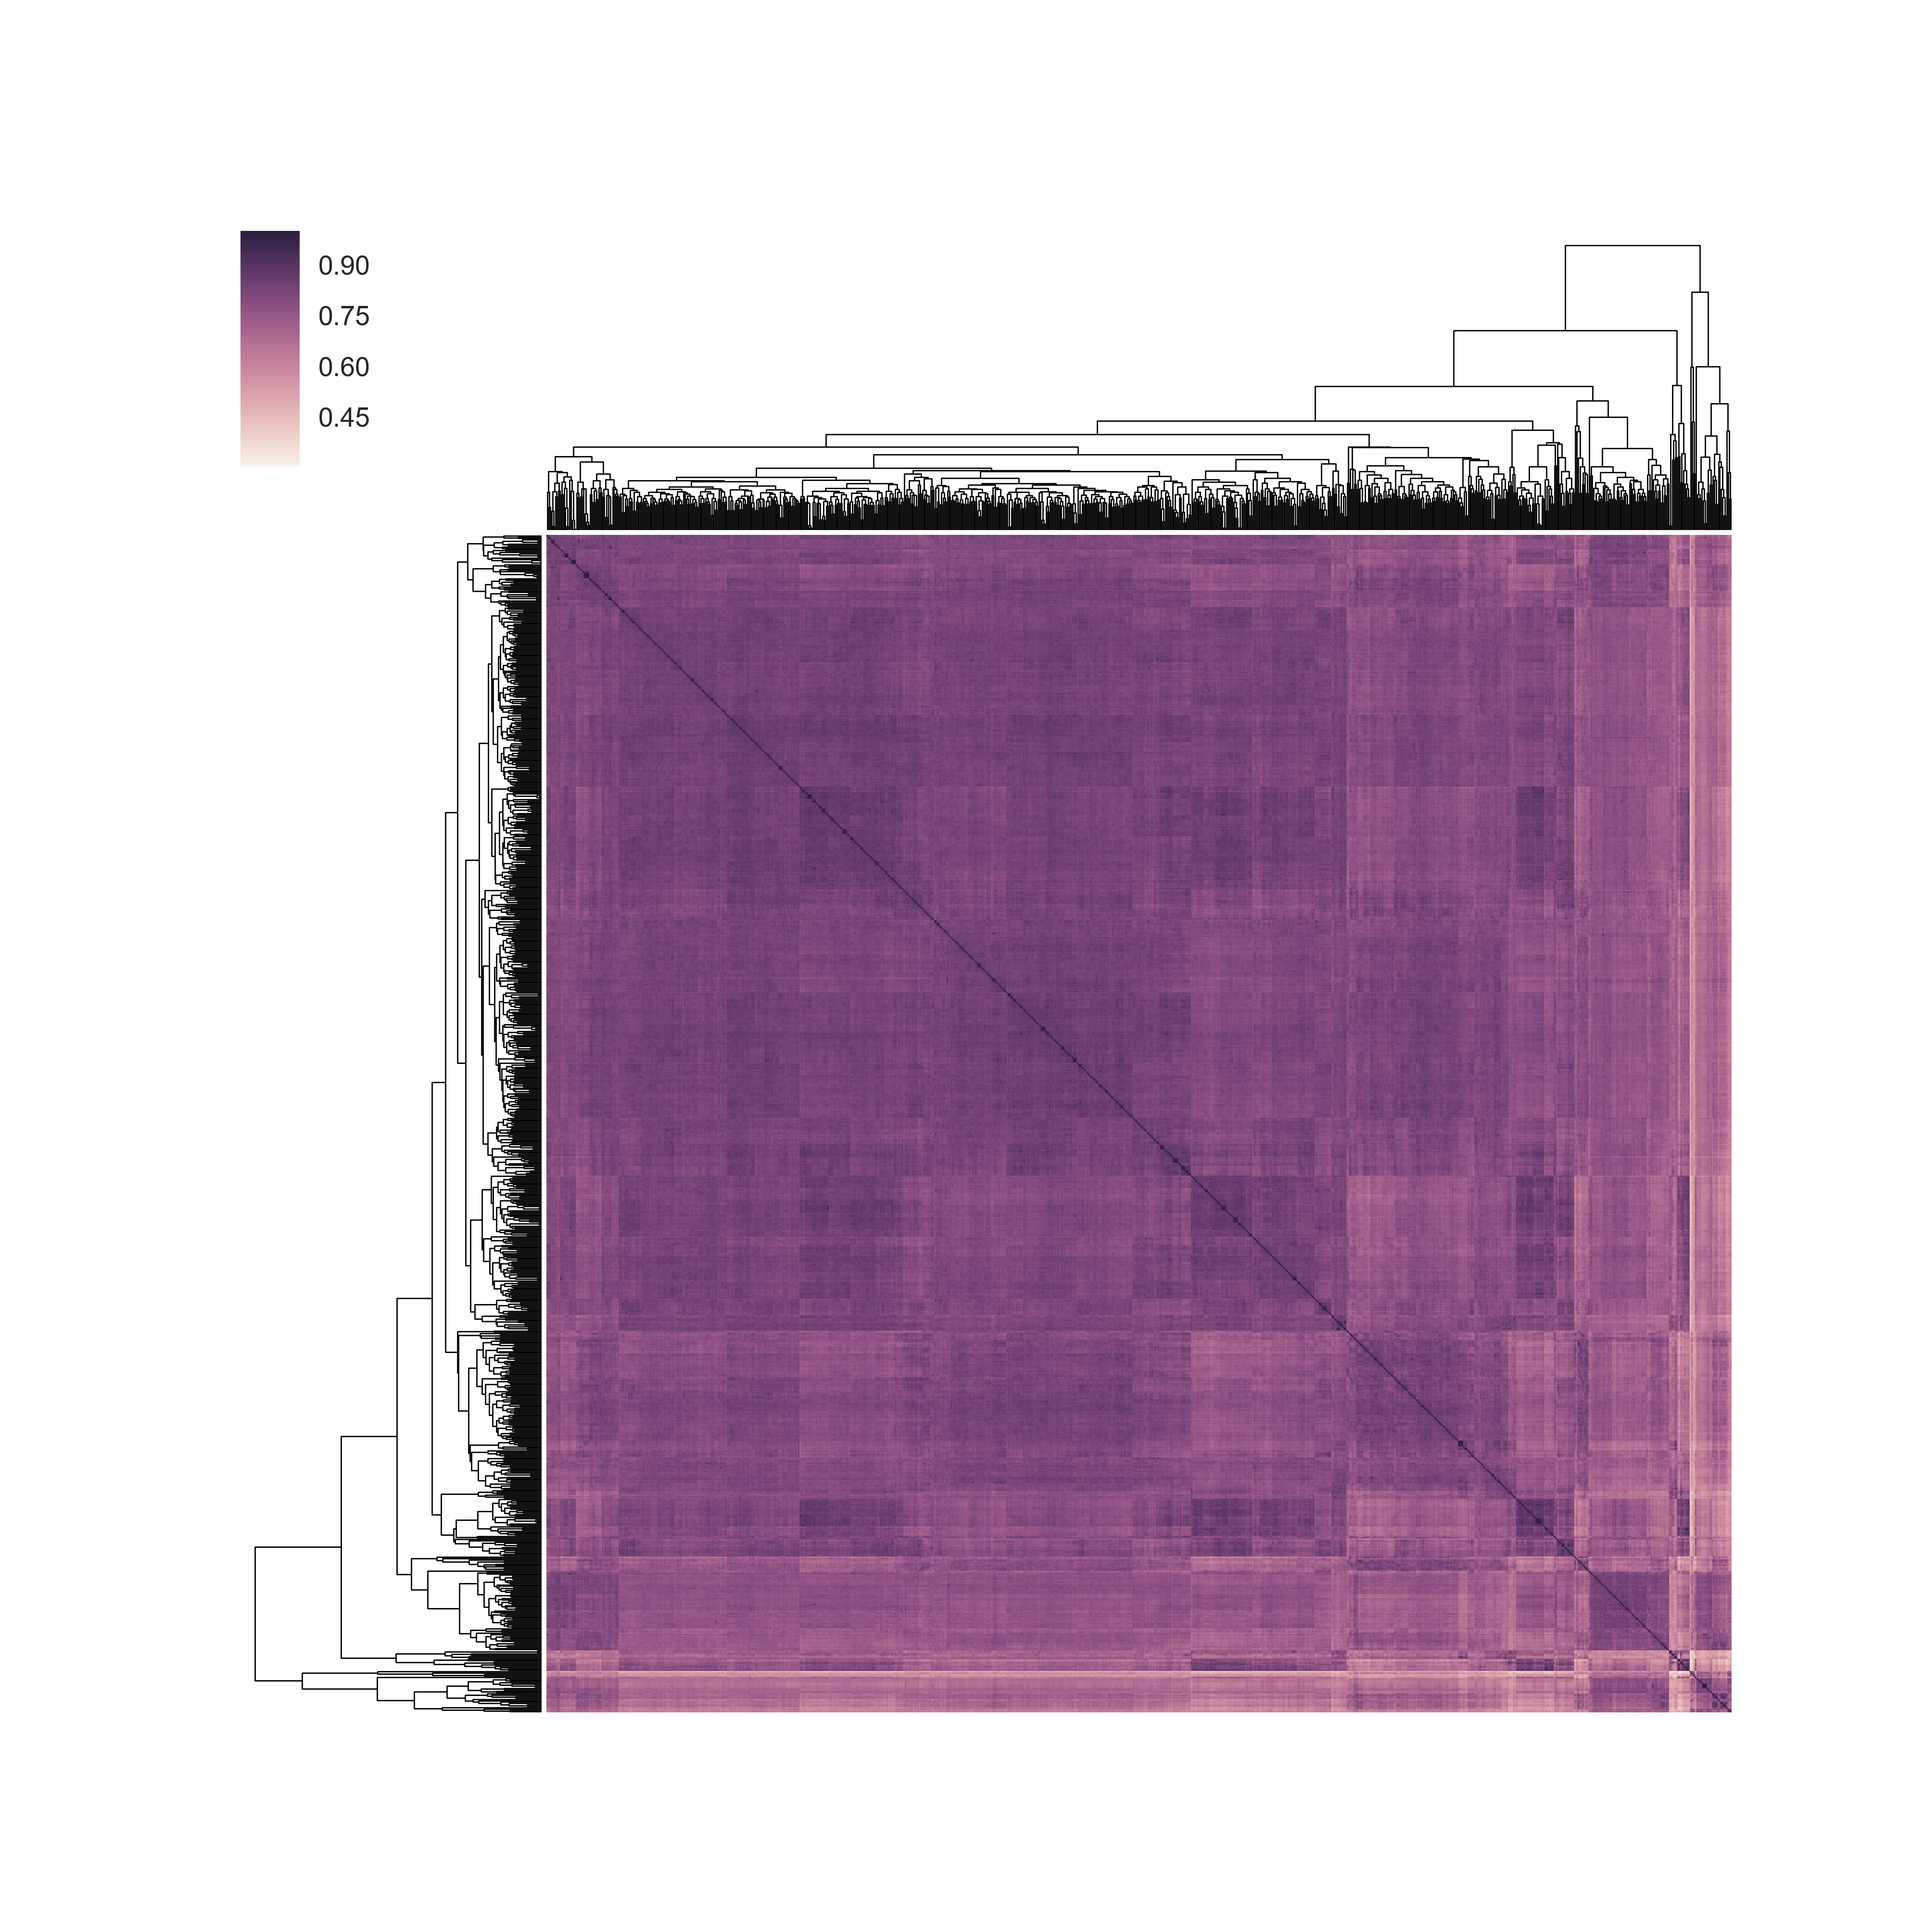
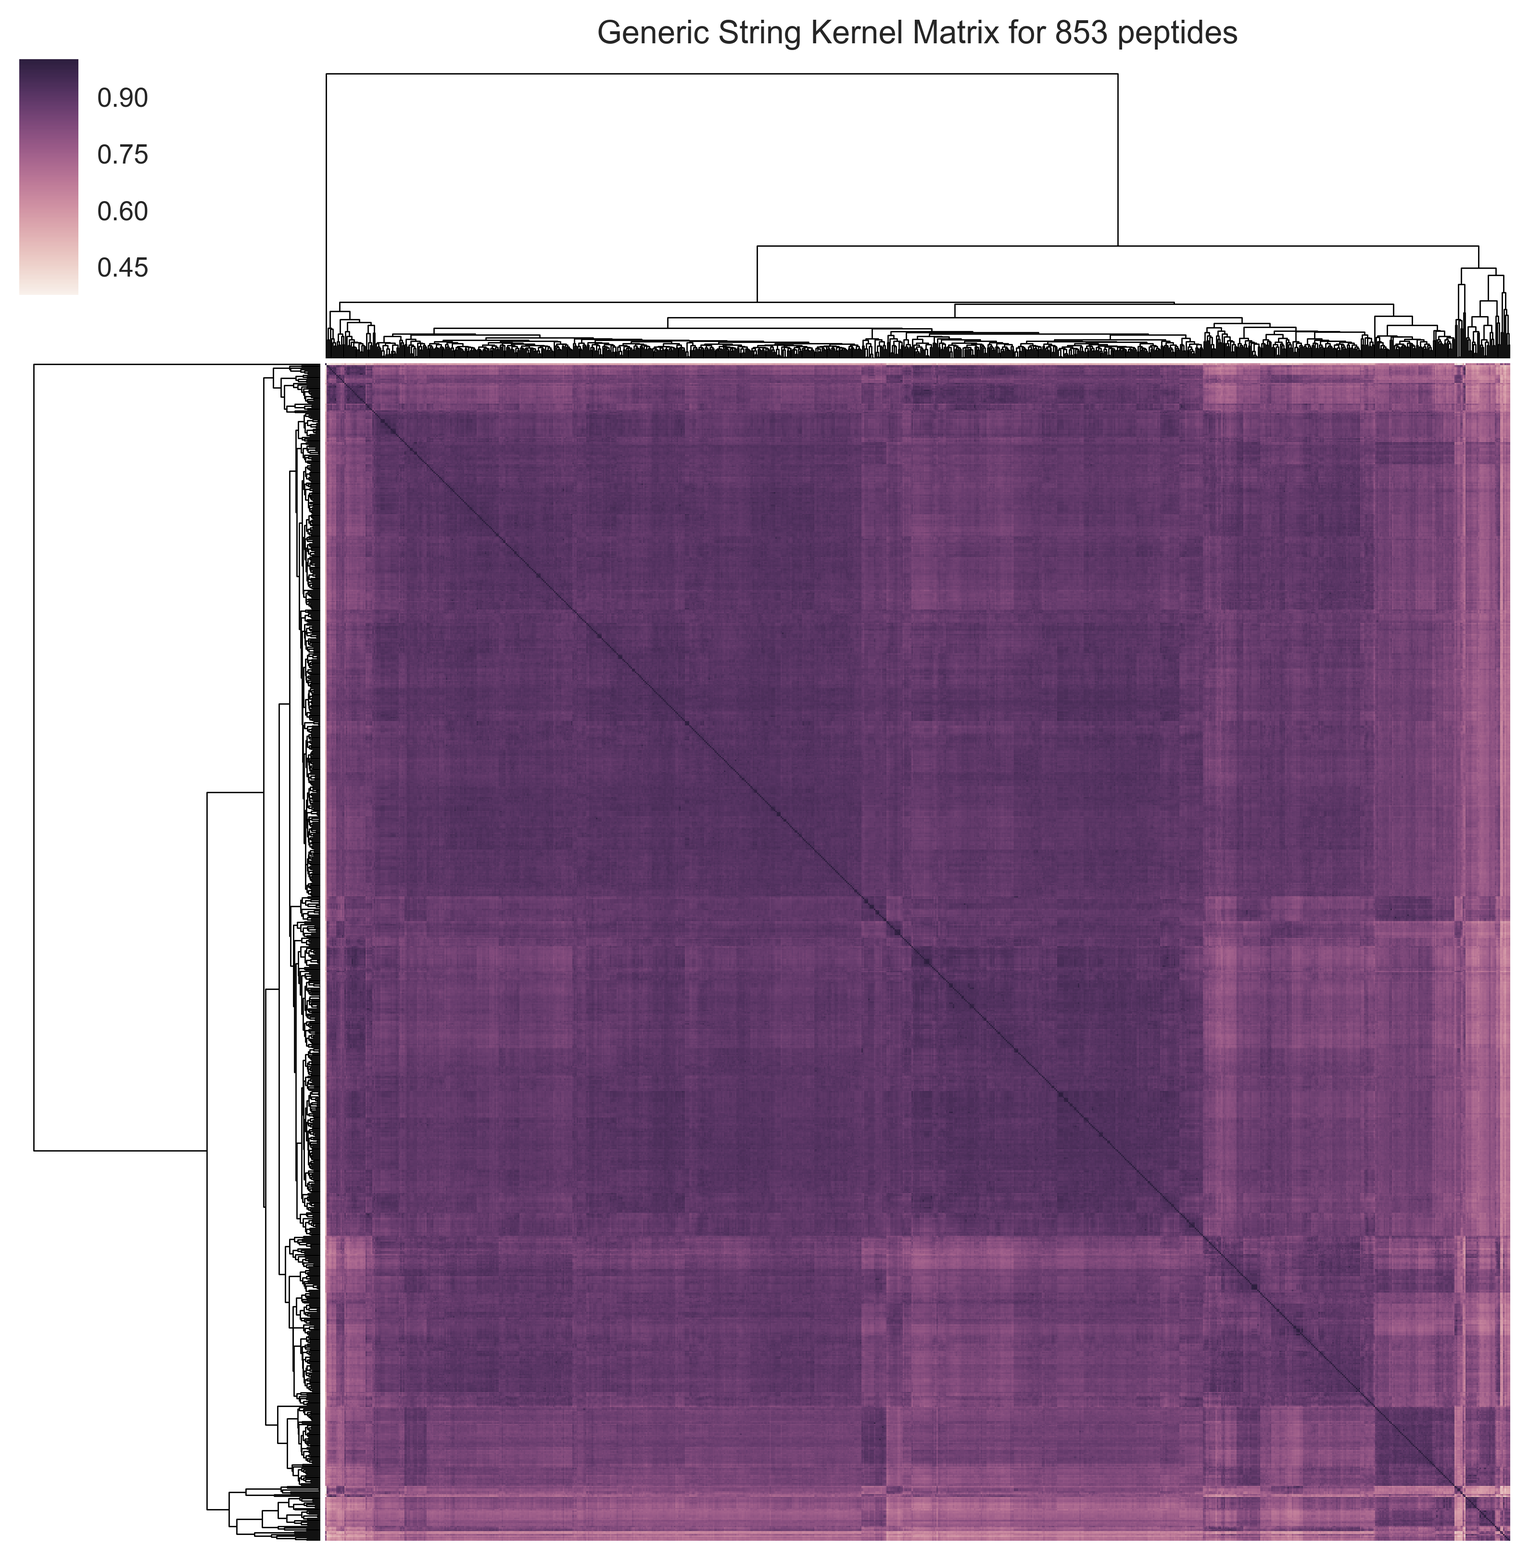
gs kernel demo

diff --git a/sections/application_peptides/README.md b/sections/application_peptides/README.md
@@ -2,9 +2,57 @@
 
 # Application: peptide protein binding affinity prediction
 
-Use a data set from the work of Giguère et al. to show them a sequence-based regression problem. Use various algorithms: decision tree regression, kernel SVM and nearest neighbour. Benchmark their prediction accuracy using figures and make them notice the key differences between the algorithms. Explain why some work better than the others.
+In this part of the tutorial, we will cover an application of kernel methods to predicting the binding affinity of peptides to the MHC-II. We will use data from the work of Giguère et al. (2013)
 
-Use dataset DRB1*1101.
+## Kernels
 
-An example kernel matrix for
+A kernel is a function that **measures the similarity** between two learning examples. Such functions must have some strict mathematical properties, which go beyond the scope of this tutorial ([see here](https://en.wikipedia.org/wiki/Kernel_method#Mathematics:_the_kernel_trick)). For our purpose, it is sufficient to know that:
+
+1. Kernels can be designed to compare **complex data structures** (e.g., images, DNA/protein sequences, etc.).
+2. The similarity measures can be based on relevant **domain knowledge**. For instance, when comparing **amino acid sequences**, it might be relevant to account for their **physicochemical properties**.
+
+Hence, they essentially allow the application of some machine learning algorithms (e.g., support vector machines, ridge regression, principal component analysis, etc.) to very complex data structures.
+
+
+## Demonstration
+
+In this example, we will model the binding affinity of short peptides and the MHC-II. We will use Support Vector Regression, a regression learning algorithm, combined with a kernel for peptide sequences: the **generic string kernel** (Giguère et al., 2013). The latter measures the similarity between peptides based on:
+
+1. An **alignment** of their substrings
+2. The **physicochemical properties** of their constituent amino acids
+
+
+Lets begin the demonstration. Start by running the following command:
+
+```bash
+make applications.peptide.binding
+```
+
+This will:
+
+1. Load a data set of 853 peptides and their measured binding affinities to the DRB1:0701 MHC-II allele
+2. Split the data set into a training and testing set
+3. Perform 5-fold cross-validation to set the hyperparameters of the kernel and the learning algorithm
+4. Generate figures that we will use to interpret the results
+
+
+![#c5f015](https://placehold.it/15/c5f015/000000?text=+) **Exercise 1:** The first figure to be plotted should be a visualization of the kernel matrix obtained using the hyperparameter values selected by cross-validation (see below). The similarity between each pair of peptides is shown. Moreover, a hierarchical clustering was used to order the peptides. Notice the presence of clusters of peptides that are more similar to each other (e.g., lower right corner).
+
 <a href="figures/gs_kernel_high_res.png" target="_blank"><img src="figures/gs_kernel_low_res.png" width="90%" /></a>
+
+![#c5f015](https://placehold.it/15/c5f015/000000?text=+) **Exercise 2:** The generic string kernel's hyperparameters allow to **tune the importance** of the **alignment** and the **physicochemical** properties in the similarity measure. The next figure that will be generated compares the results obtained by considering 1) only the alignment, 2) only the physicochemical properties, 3) both the alignment and physicochemical properties. This illustrates how **domain knowledge** can be used to **increase the accuracy** of a learning algorithm.
+
+<img src="figures/gs_variants_high_res.png" width="80%" />
+
+![#c5f015](https://placehold.it/15/c5f015/000000?text=+) **Exercise 3:** Finally, we compare the results obtained with the generic string kernel to those obtained using a *spectrum kernel* (CITE). Unlike the generic string kernel, the spectrum kernel does not consider an alignment or physicochemical properties. It calculates the similarity between two amino acid sequences based on the counts of *k*-mers, which are sequences of *k* amino acids.
+
+<img src="figures/gs_vs_spectrum_high_res.png" width="80%" />
+
+## References
+Giguère, S., Marchand, M., Laviolette, F., Drouin, A., & Corbeil, J. (2013). Learning a peptide-protein binding affinity predictor with kernel ridge regression. BMC bioinformatics, 14(1), 82.
+
+## TODO
+
+* gs kernel installation script
+* precomputed kernel matrices?
+* reference for spectrum kernel
